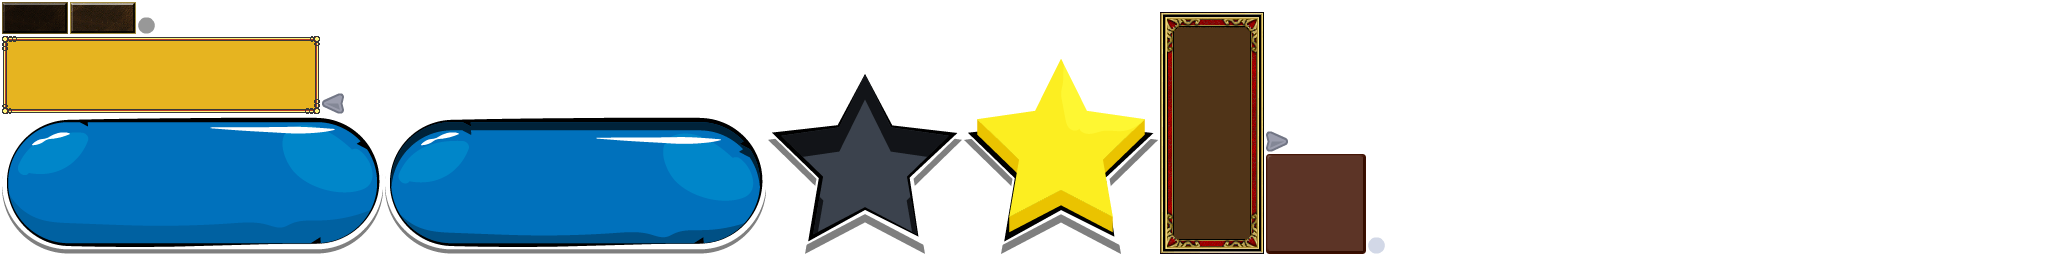
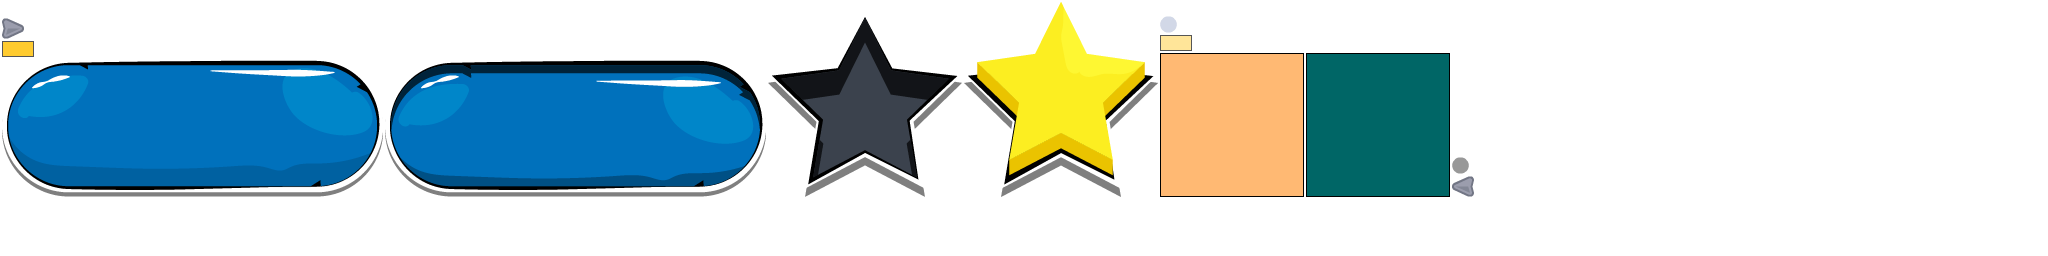
remove unnecessary textures, add monotomic stubs

diff --git a/android/core/src/com/game7th/swipe/campaign/prepare/BattlePrepareDialog.kt b/android/core/src/com/game7th/swipe/campaign/prepare/BattlePrepareDialog.kt
@@ -88,7 +88,7 @@ class BattlePrepareDialog(
                 ScaleToAction().apply { setScale(1f); duration = 0.3f }
         ))
 
-        background = Image(context.uiAtlas.createPatch("ui_dialog_bg.fw")).apply {
+        background = Image(context.uiAtlas.findRegion("ui_dialog")).apply {
             width = this@BattlePrepareDialog.width + 28
             height = this@BattlePrepareDialog.height + 28
             x = -14f
@@ -97,7 +97,7 @@ class BattlePrepareDialog(
         background.onClick { }
         addActor(background)
 
-        labelDifficulty = Label("Chose difficulty:", Label.LabelStyle(context.font, Color.WHITE)).apply {
+        labelDifficulty = Label("Chose difficulty:", Label.LabelStyle(context.font, Color.BLACK)).apply {
             x = 94 * game.scale
             y = 300f * game.scale
             width = 71 * game.scale
@@ -124,12 +124,13 @@ class BattlePrepareDialog(
         applyDifficulty()
 
         buttonStart = TextButton("Start", TextButton.TextButtonStyle(
-                TextureRegionDrawable(context.uiAtlas.findRegion("ui_button.fw")),
-                TextureRegionDrawable(context.uiAtlas.findRegion("ui_button_dn.fw")),
+                TextureRegionDrawable(context.uiAtlas.findRegion("ui_button_simple")),
+                TextureRegionDrawable(context.uiAtlas.findRegion("ui_button_pressed")),
                 null,
                 context.font
         )).apply {
             label.setFontScale(1f)
+            label.color = Color.BLACK
             x = 240 * game.scale
             y = 5f * game.scale
             width = game.scale * 90

diff --git a/android/core/src/com/game7th/swipe/game/actors/ui/GameFinishedDialog.kt b/android/core/src/com/game7th/swipe/game/actors/ui/GameFinishedDialog.kt
@@ -19,14 +19,14 @@ class GameFinishedDialog(
         callback: () -> Unit
         ) : Group() {
 
-    val background = Image(context.atlas.createPatch("ui_dialog")).apply {
+    val background = Image(context.uiAtlas.findRegion("ui_dialog")).apply {
         width = 400f
         height = 300f
         zIndex = 5
         addActor(this)
     }
 
-    val buttonClose = Image(context.atlas.createPatch("ui_button")).apply {
+    val buttonClose = Image(context.uiAtlas.findRegion("ui_button_simple")).apply {
         width = 120f
         height = 20f
         zIndex = 6
@@ -42,12 +42,13 @@ class GameFinishedDialog(
         })
     }
 
-    val buttonCloseLabel = Label("CLOSE", Label.LabelStyle(context.font, Color.WHITE)).apply {
+    val buttonCloseLabel = Label("CLOSE", Label.LabelStyle(context.font, Color.BLACK)).apply {
         width = 120f
         height = 20f
         zIndex = 7
         x = 140f
         y = 20f
+        setFontScale(0.5f)
         setAlignment(Align.center)
         addActor(this)
         touchable = Touchable.disabled
@@ -59,7 +60,7 @@ class GameFinishedDialog(
         height = 25f
         setFontScale(1f)
         x = 0f
-        y = 270f
+        y = 265f
         zIndex = 10
         addActor(this)
     }

diff --git a/android/core/src/com/game7th/swipe/SwipeGameGdx.kt b/android/core/src/com/game7th/swipe/SwipeGameGdx.kt
@@ -48,11 +48,7 @@ class SwipeGameGdx(private val storage: PersistentStorage) : Game() {
         height = Gdx.graphics.height.toFloat()
         scale = Gdx.graphics.width / 480f
 
-
-
-
-
-
+        val uiAtlas = TextureAtlas(Gdx.files.internal("ui.atlas"))
         val atlas = TextureAtlas(Gdx.files.internal("pack_0.atlas"))
         val font = BitmapFont(Gdx.files.internal("atarian.fnt"), Gdx.files.internal("atarian_0.png"), false).apply {
             color = Color.WHITE
@@ -60,11 +56,10 @@ class SwipeGameGdx(private val storage: PersistentStorage) : Game() {
         val balanceFile = Gdx.files.internal("balance.json")
         val balanceText = balanceFile.readString()
         val balance = Gson().fromJson<SwipeBalance>(balanceText, SwipeBalance::class.java)
-        context = GdxGameContext(atlas, font, balance, scale)
+        context = GdxGameContext(atlas, uiAtlas, font, balance, scale)
 
         Gdx.input.inputProcessor = multiplexer
 
-        uiAtlas = TextureAtlas(Gdx.files.internal("ui.atlas"))
         screenContext = ScreenContext(uiAtlas, font, atlas, scale)
         setScreen(ActScreen(this, actService, 0, screenContext))
     }

diff --git a/android/core/src/com/game7th/swipe/campaign/prepare/SquadBrowserActor.kt b/android/core/src/com/game7th/swipe/campaign/prepare/SquadBrowserActor.kt
@@ -27,7 +27,7 @@ class SquadBrowserActor(
     var index = 0
 
     init {
-        background = Image(context.uiAtlas.createPatch("panel_blue")).apply {
+        background = Image(context.uiAtlas.findRegion("panel_blue")).apply {
             width = 168f * context.scale
             height = 270f * context.scale
         }

diff --git a/android/core/src/com/game7th/swipe/constructor/PersonageSelector.kt b/android/core/src/com/game7th/swipe/constructor/PersonageSelector.kt
@@ -11,7 +11,7 @@ class PersonageSelector(
         callback: (Int) -> Unit
 ) : Group() {
 
-    val bg = Image(context.atlas.createPatch("ui_dialog")).apply {
+    val bg = Image(context.atlas.findRegion("ui_dialog")).apply {
         width = 370f
         height = 370f
     }

diff --git a/android/core/src/com/game7th/swipe/GdxGameContext.kt b/android/core/src/com/game7th/swipe/GdxGameContext.kt
@@ -6,6 +6,7 @@ import com.game7th.battle.balance.SwipeBalance
 
 data class GdxGameContext(
         val atlas: TextureAtlas,
+        val uiAtlas: TextureAtlas,
         val font: BitmapFont,
         val balance: SwipeBalance,
         val scale: Float
